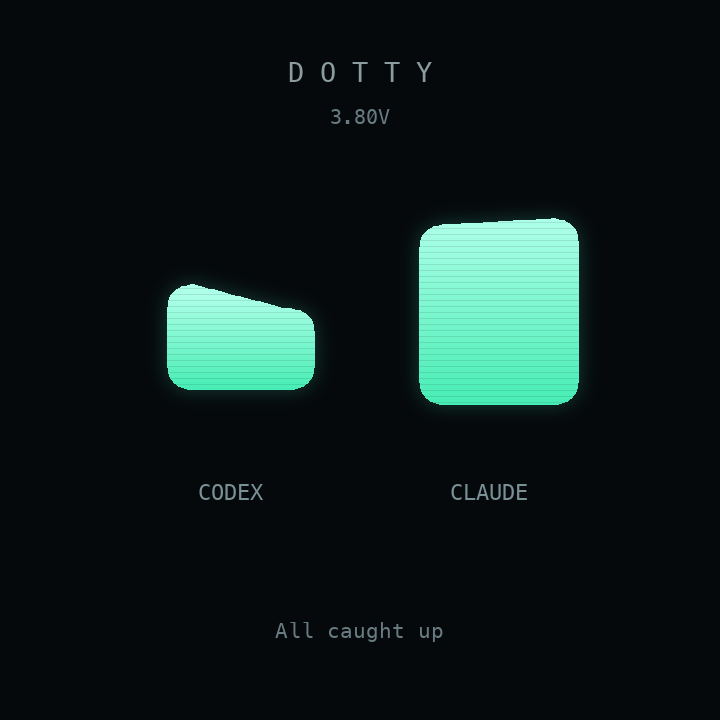
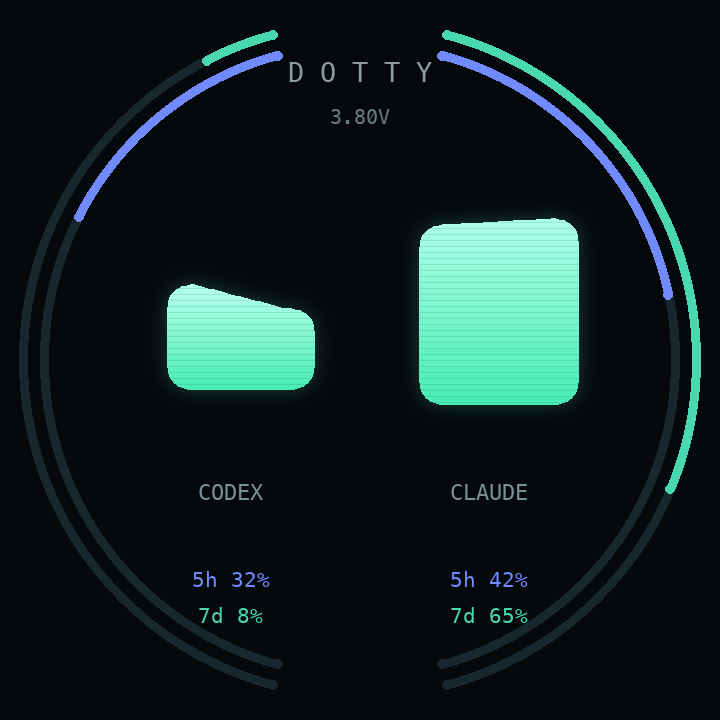
Add split-provider perimeter usage arcs to eye prototype

Changed region(s): [[0.6111, 0.0306, 0.9778, 0.9778], [0.0, 0.0306, 0.4278, 0.9778], [0.4583, 0.8556, 0.6111, 0.8861]]

diff --git a/docs/eyes/dotty-vector-eyes.html b/docs/eyes/dotty-vector-eyes.html
@@ -1,6 +1,6 @@
 <div id="dotty-vector-preview">
   <div class="vector-stage viz-dotted-background">
-    <canvas width="720" height="720" aria-label="Dotty expression study: luminous rounded robot eyes that glance, blink, squint, perk up, and become sleepy. Codex is on the left; Claude is on the right."></canvas>
+    <canvas width="720" height="720" aria-label="Expressive Dotty eyes with perimeter usage meters. Left arcs show Codex; right arcs show Claude. Mint is weekly usage and blue is five-hour usage. Percentages are usage consumed; values are illustrative."></canvas>
   </div>
   <div class="viz-controls" aria-label="Try robot expressions">
     <button class="btn btn-primary" type="button" data-action="play">Pause demo</button>
@@ -22,6 +22,10 @@
 <script id="dotty-vector-motion" type="application/json">
 {
   "duration":14,
+  "usage":[
+    {"provider":"Codex","five_hour":32,"seven_day":8},
+    {"provider":"Claude","five_hour":42,"seven_day":65}
+  ],
   "poses":{
     "relaxed":{"label":"Relaxed","x":0,"y":0,"wl":51,"wr":51,"hl":55,"hr":55,"yl":0,"yr":0,"tl":0,"tr":0,"joy":0,"codex":0,"claude":0,"question":false},
     "right":{"label":"Glancing right","x":0.72,"y":-0.12,"wl":48,"wr":54,"hl":51,"hr":56,"yl":0,"yr":-1,"tl":1,"tr":0,"joy":0,"codex":0,"claude":0,"question":false},
@@ -59,10 +63,10 @@
   const button=root.querySelector('[data-action="play"]'), status=root.querySelector('[data-status]');
   const numeric=['x','y','wl','wr','hl','hr','yl','yr','tl','tr','joy'];
   const reduced=matchMedia('(prefers-reduced-motion: reduce)');
-  const settings={theme:'Mint',energy:1,rounding:9,usage:false};
+  const settings={theme:'Mint',energy:1,rounding:9,usage:true};
   const saved=window.openai?.widgetState?.modelContent;
   if(['Mint','Ice','Zed'].includes(saved?.vectorTheme)) settings.theme=saved.vectorTheme;
-  if(typeof saved?.vectorUsage==='boolean') settings.usage=saved.vectorUsage;
+  if(typeof saved?.vectorPerimeterUsage==='boolean') settings.usage=saved.vectorPerimeterUsage;
   let playing=!reduced.matches, origin=performance.now(), offset=0;
   let manual=null, manualStart=0, manualFrom=null, pointer=null, lastLabel='';
   let shown={...motion.poses.relaxed};
@@ -111,6 +115,22 @@
       settings.theme==='Ice'?{light:'#bdffff',core:'#59dfe9',glow:'#44dfff'}:
       {light:'#adffe7',core:'#47edb4',glow:'#4dffce'};
   }
+  function perimeterUsage() {
+    motion.usage.forEach((quota,index)=>{
+      const start=(index?-75:-105)*Math.PI/180, direction=index?1:-1;
+      const span=150*Math.PI/180;
+      [[112,quota.seven_day,'#49d8b0'],[105,quota.five_hour,'#718bff']].forEach(([radius,used,color])=>{
+        ctx.save();ctx.lineWidth=3;ctx.lineCap='round';
+        ctx.strokeStyle='#18262e';ctx.beginPath();
+        ctx.arc(120,120,radius,start,start+direction*span,direction<0);ctx.stroke();
+        if(Number.isFinite(used)&&used>0) {
+          ctx.strokeStyle=color;ctx.beginPath();
+          ctx.arc(120,120,radius,start,start+direction*span*Math.min(100,used)/100,direction<0);ctx.stroke();
+        }
+        ctx.restore();
+      });
+    });
+  }
   function paint(t,now) {
     const p=palette(), bg='#05090c', muted='#687b80';
     let s=manual?blend(manualFrom,manual,ease(Math.min(1,(now-manualStart)/180))):stateAt(t);
@@ -120,6 +140,7 @@
     const breathe=playing?Math.sin(t*1.8)*.5:0;
     ctx.setTransform(3,0,0,3,0,0);ctx.clearRect(0,0,240,240);
     ctx.fillStyle=bg;ctx.beginPath();ctx.arc(120,120,119,0,Math.PI*2);ctx.fill();
+    if(settings.usage) perimeterUsage();
     if(active) {
       ctx.save();ctx.globalAlpha=.3+.17*Math.sin(t*5);ctx.strokeStyle=p.glow;ctx.lineWidth=1;
       ctx.beginPath();ctx.arc(120,120,116,0,Math.PI*2);ctx.stroke();ctx.restore();
@@ -142,8 +163,9 @@
       text(index?'CLAUDE':'CODEX',center,164,7.5,'#799196');
       if(count) text(`${count} ${index?(s.question?'question':'pending'):'unread'}`,center,178,7.5,p.core);
       if(settings.usage) {
-        text(`5h ${index?42:32}%`,center,195,7,'#8d9bd7');
-        text(`7d ${index?65:8}%`,center,208,7,'#71bca4');
+        const quota=motion.usage[index];
+        text(`5h ${quota.five_hour}%`,center,193,7,'#718bff');
+        text(`7d ${quota.seven_day}%`,center,205,7,'#49d8b0');
       }
     });
     if(!settings.usage) text(s.question?'Claude needs you':s.codex?'New Codex reply':'All caught up',120,210,7,muted);
@@ -151,7 +173,7 @@
     root.dataset.expression=s.label;
   }
   function persist() {
-    window.openai?.setWidgetState?.({modelContent:{vectorTheme:settings.theme,vectorUsage:settings.usage,vectorExpression:manual?.label||'Demo'},privateContent:{playing}})?.catch(()=>{});
+    window.openai?.setWidgetState?.({modelContent:{vectorTheme:settings.theme,vectorPerimeterUsage:settings.usage,vectorExpression:manual?.label||'Demo'},privateContent:{playing}})?.catch(()=>{});
   }
   root.querySelectorAll('[data-pose]').forEach(el=>el.addEventListener('click',()=>{
     manualFrom={...shown};manual={...motion.poses[el.dataset.pose]};manualStart=performance.now();playing=false;pointer=null;
@@ -171,14 +193,14 @@
   window.addEventListener('openai:set_globals',event=>{
     const state=event.detail?.globals?.widgetState?.modelContent;
     if(['Mint','Ice','Zed'].includes(state?.vectorTheme)) settings.theme=state.vectorTheme;
-    if(typeof state?.vectorUsage==='boolean') settings.usage=state.vectorUsage;
+    if(typeof state?.vectorPerimeterUsage==='boolean') settings.usage=state.vectorPerimeterUsage;
   });
   if(globalThis.Tweak) {
     const tweak=new Tweak({container:canvas,onChange:()=>{paint(offset,performance.now());persist();}});
     tweak.addSelect(settings,'theme',{label:'Eye color',options:['Mint','Ice','Zed']});
     tweak.addSlider(settings,'rounding',{label:'Eye corner radius',min:2,max:13,step:1,unit:'px'});
     tweak.addSlider(settings,'energy',{label:'Glance movement',min:.4,max:1.4,step:.1});
-    tweak.addToggle(settings,'usage',{label:'Usage details'});
+    tweak.addToggle(settings,'usage',{label:'Perimeter usage'});
   }
   button.textContent=playing?'Pause demo':'Play demo';
   paint(0,performance.now());

diff --git a/scripts/render_vector_eyes.py b/scripts/render_vector_eyes.py
@@ -65,13 +65,32 @@ def eye_path(x,y,w,h,tilt,joy):
     return [(round(a*SCALE),round(b*SCALE)) for a,b in points]
 
 
-def frame(t,usage=False):
+def frame(t,usage=True):
     s=state_at(t)
     image=Image.new('RGB',(240*SCALE,240*SCALE),BG)
     draw=ImageDraw.Draw(image)
     def text(value,x,y,size,color):
         font=ImageFont.truetype(FONT,round(size*SCALE))
         ImageDraw.Draw(image).text((x*SCALE,y*SCALE),value,font=font,fill=color,anchor='mm')
+    if usage:
+        # Left and right provider halves both fill from top toward the bottom.
+        # Pillow arcs run clockwise; reverse the left-side endpoints.
+        for index,quota in enumerate(MOTION['usage']):
+            start=-75 if index else -105
+            direction=1 if index else -1
+            for radius,used,color in ((112,quota['seven_day'],'#49d8b0'),(105,quota['five_hour'],'#718bff')):
+                # Pillow strokes inward; offset the box to keep the same
+                # centerline and round caps as the browser canvas renderer.
+                box=tuple(v*SCALE for v in (120-radius-1.5,120-radius-1.5,120+radius+1.5,120+radius+1.5))
+                def arc(end,fill):
+                    a,b=(start,end) if index else (end,start)
+                    draw.arc(box,start=a,end=b,fill=fill,width=3*SCALE)
+                    for angle in (a,b):
+                        x=120+radius*math.cos(math.radians(angle));y=120+radius*math.sin(math.radians(angle))
+                        draw.ellipse(tuple(v*SCALE for v in (x-1.5,y-1.5,x+1.5,y+1.5)),fill=fill)
+                arc(start+direction*150,'#18262e')
+                if used is not None and used>0:
+                    arc(start+direction*150*min(100,used)/100,color)
     if s['codex']+s['claude']>0:
         alpha=.3+.17*math.sin(t*5)
         color=tuple(round(a*alpha+b*(1-alpha)) for a,b in zip((77,255,206),(5,9,12)))
@@ -103,8 +122,9 @@ def frame(t,usage=False):
             label=f"{count} {'question' if s['question'] else 'pending'}" if index else f'{count} unread'
             text(label,center,178,7.5,'#47edb4')
         if usage:
-            text(f'5h {42 if index else 32}%',center,195,7,'#8d9bd7')
-            text(f'7d {65 if index else 8}%',center,208,7,'#71bca4')
+            quota=MOTION['usage'][index]
+            text(f"5h {quota['five_hour']}%",center,193,7,'#718bff')
+            text(f"7d {quota['seven_day']}%",center,205,7,'#49d8b0')
     if not usage:
         text('Claude needs you' if s['question'] else 'New Codex reply' if s['codex'] else 'All caught up',120,210,7,'#687b80')
     return image
@@ -128,7 +148,7 @@ def main():
         sheet.paste(frame(t).resize((320,320),Image.Resampling.LANCZOS),(320*i,0))
         draw.text((320*i+160,342),label,font=font,fill='#cbd7db',anchor='mm')
     sheet.save(OUT/'dotty-vector-eyes-storyboard.png')
-    (OUT/'vector-animation.json').write_text(json.dumps({'source':'dotty-vector-eyes.html','reference':'https://anki.bot/pages/meet-vector','seconds':duration/1000,'fps':fps,'rendered_frames':len(images),'gif_frames':count,'style':'Luminous rounded panels; expression through lids, eye proportions and whole-eye gaze.','counts_are_illustrative':True,'firmware_changes':False},indent=2)+'\n')
+    (OUT/'vector-animation.json').write_text(json.dumps({'source':'dotty-vector-eyes.html','reference':'https://anki.bot/pages/meet-vector','seconds':duration/1000,'fps':fps,'rendered_frames':len(images),'gif_frames':count,'style':'Luminous rounded panels with split-provider perimeter usage arcs.','usage':MOTION['usage'],'usage_is_consumed':True,'weekly_radius':112,'five_hour_radius':105,'counts_are_illustrative':True,'firmware_changes':False},indent=2)+'\n')
     print('Rendered',len(images),'frames;',duration,'ms;',count,'optimized GIF frames.')
     print(gif_path)
 
